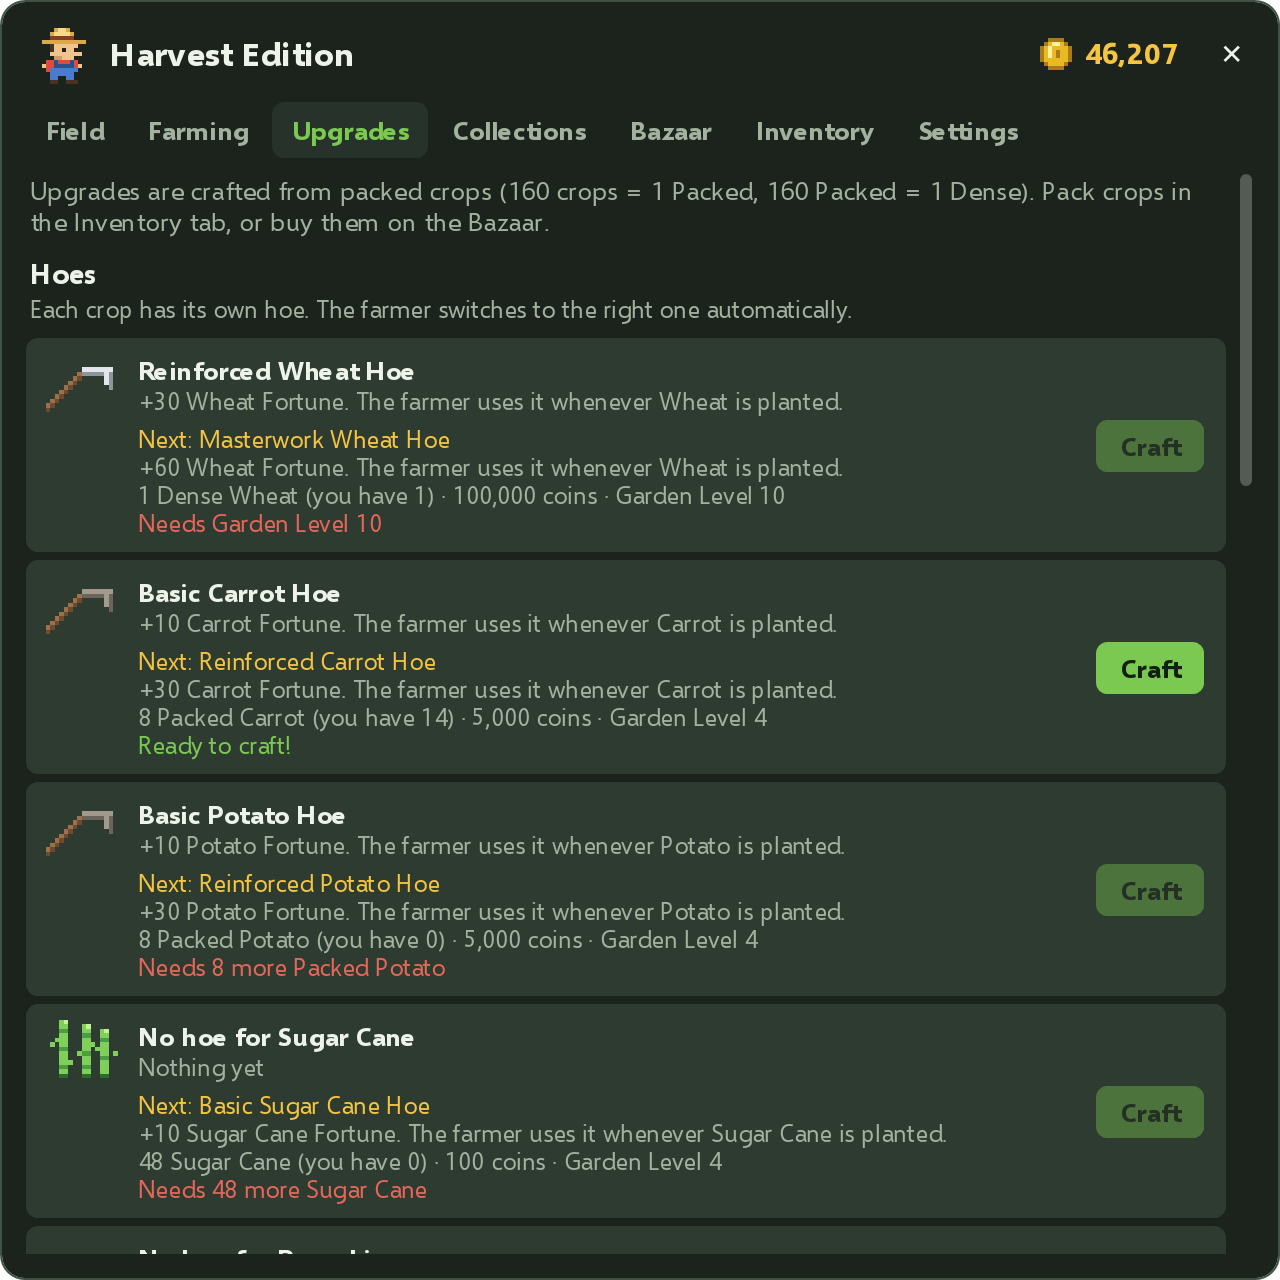
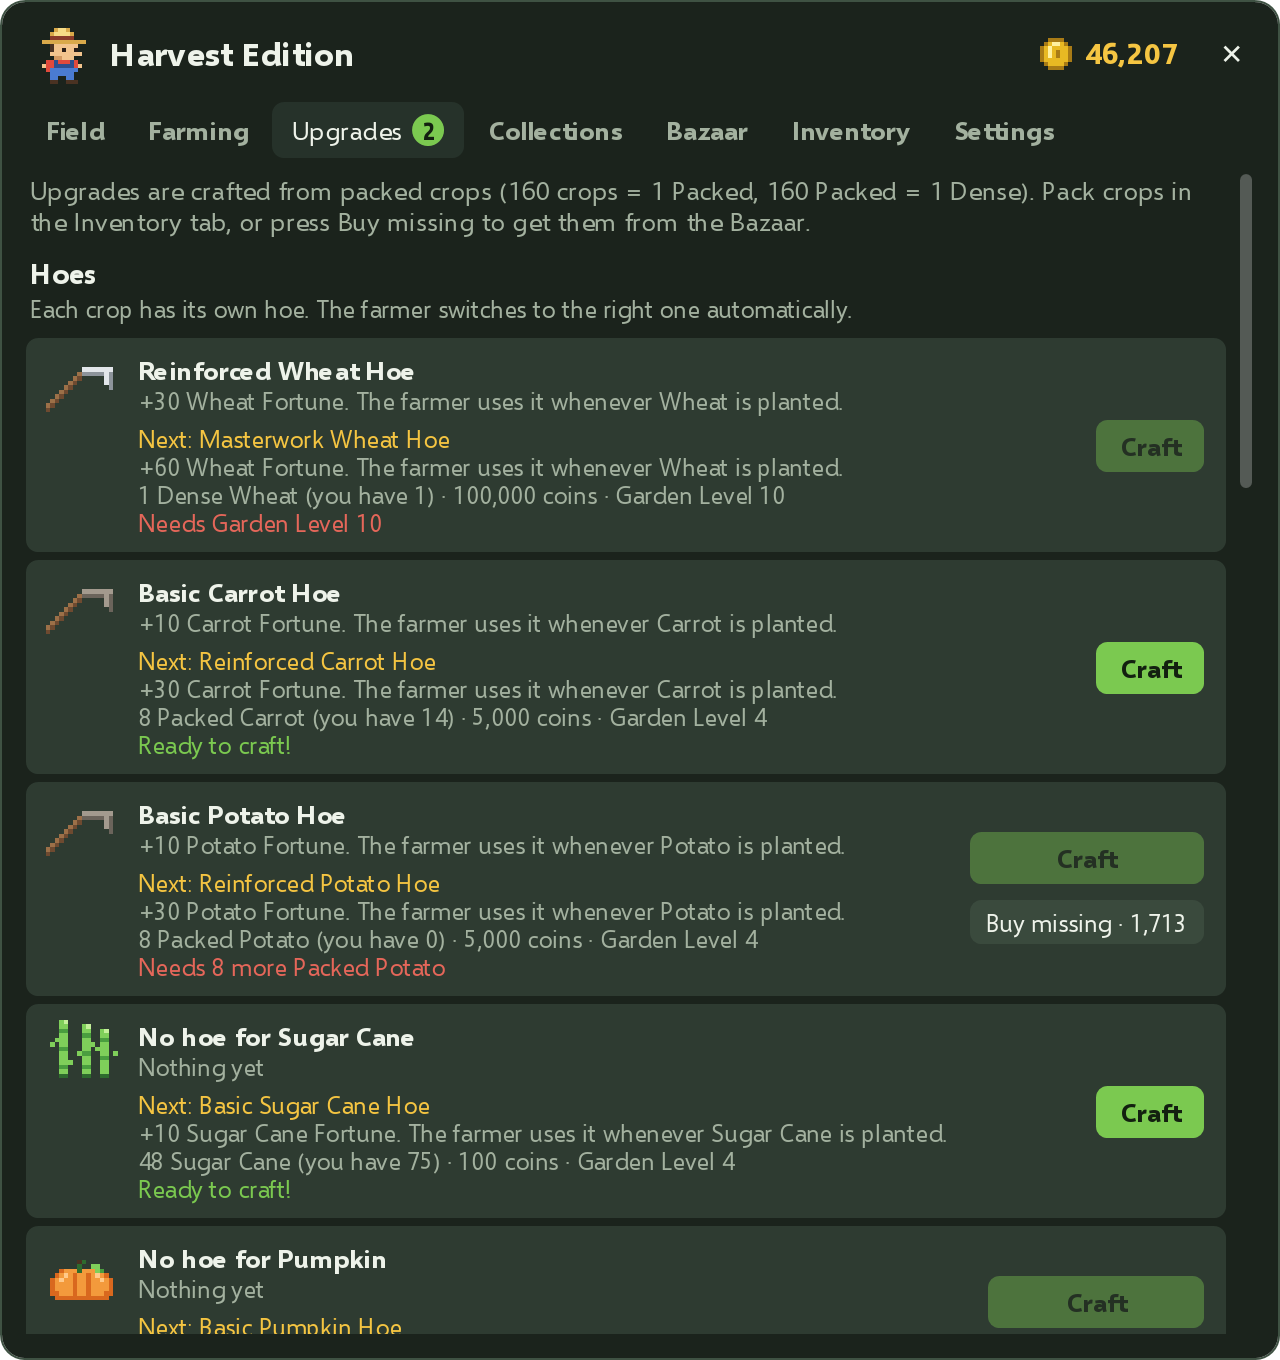
QOL: README and screenshots
Documents drag-to-farm, the Compactor, Buy missing, the Inventory changes
(Pack menu, locks, keeping crops for upgrades, auto-sell per crop), the
Bazaar search, prices and chart, coins an hour, and the new settings.
The screenshot tour also captures the bottom of the longer tabs.

Claude-Session: https://claude.ai/code/session_01ToZMHn8mZGdH8CgZx5DN39

diff --git a/src/TaskBarGame.App/ViewModels/Rows.cs b/src/TaskBarGame.App/ViewModels/Rows.cs
@@ -394,7 +394,7 @@ public sealed class CropSettingRow : ObservableObject
         }
         var needs = engine.UpgradeNeeds(Crop);
         var parts = new List<string>();
-        if (needs.Raw > 0) parts.Add(Format.Number(needs.Raw));
+        if (needs.Raw > 0) parts.Add($"{Format.Number(needs.Raw)} {Crop.Name}");
         if (needs.Packed > 0) parts.Add($"{Format.Number(needs.Packed)} Packed");
         if (needs.Dense > 0) parts.Add($"{Format.Number(needs.Dense)} Dense");
         KeptText = parts.Count == 0 ? "Nothing needed right now" : "Upgrades need " + string.Join(" + ", parts);

diff --git a/README.md b/README.md
@@ -50,6 +50,7 @@ dotnet publish src/TaskBarGame.App -c Release -r win-x64 --self-contained true -
 |---|---|
 | Click a **grown** crop | Break it yourself: +25 Harvest Fortune, and you see the XP you earned |
 | Click a **growing** crop | Tend it: it regrows faster |
+| **Hold the button and drag** along the row | Break (or tend) every crop you pass over |
 | Right-click the row | Choose which crop to plant (the whole row changes) |
 | Click the **farmer's head** or the **coins** | Open the panel |
 | Right-click the farmer or the strip | Quick menu: plant, sell crops, strip size, position, show-on-hover, quit |
@@ -128,6 +129,20 @@ Every 1,000 crops a hoe breaks adds +1 Fortune for that crop (up to +30).
 | Merchant's | Market sell price % | Potato, then Melon |
 | Scholar's | Farming XP % | Wheat, then Pumpkin, then Cocoa |
 
+**Compactor:** packs crops for you as they're harvested, so you don't have to press Pack.
+
+| Tier | What it does | Made from |
+|---|---|---|
+| Compactor | Every 160 crops become 1 Packed crop | 8 Packed Wheat + 8 Packed Carrot + 5,000 coins (Garden 3) |
+| Dense Compactor | Also presses every 160 Packed into 1 Dense crop | 1 Dense Wheat + 16 Packed Melon + 100,000 coins (Garden 9) |
+
+You can turn it off for any crop in the Inventory tab. It leaves alone any plain crops your next upgrades
+use as they are (like the 48 crops for a first hoe).
+
+The number on the **Upgrades** tab is how many upgrades you can craft right now, and a popup tells you
+when a new one becomes ready. If an upgrade is only missing ingredients, **Buy missing** buys them on
+the Bazaar in one click and shows what that costs.
+
 ### Bazaar
 
 Buy and sell crops, packed crops and dense crops with other (pretend) farmers in the **Bazaar** tab.
@@ -140,10 +155,30 @@ Buy and sell crops, packed crops and dense crops with other (pretend) farmers in
   bit by bit while buyers are paying that much. **Buy order** bids a bit under the buy price: your coins
   are set aside and the items arrive while sellers are that cheap. Orders keep filling while the game is
   closed, and you can cancel them to get back whatever hasn't filled.
+- Type **your own price** for a sell offer or buy order, or leave the box empty for the automatic one
+  (just better than the current price, so it fills soon). You're warned if your price is worse than
+  trading straight away.
+- The **chart** shows the item's sell price over the last 2 hours, so you can tell a good time to sell.
+- The **search box** finds items by name: "melon" shows Melon, Packed Melon and Dense Melon.
 - On average the Bazaar pays about 20% more than the Market. Buying packed and dense crops here is a
   quick way to get materials for upgrades.
 
+### Inventory
+
 The **Inventory** tab is for packing crops and selling quickly to the Market.
+
+- **Pack ▾** lets you choose how many to pack (1, 5, 10... or all). **Pack everything** packs it all.
+- **Lock** an item and it's never sold: not by a Sell button, auto-sell or the Bazaar.
+- **Keep enough crops for my next upgrades** (on by default): selling to the Market, Sell all crops and
+  auto-sell keep back what your next hoes, armour, talismans and Compactor need, counting the crops you
+  still have to pack. Each item shows how many it's keeping.
+- **Auto-sell** is chosen crop by crop: those crops are sold to the Market as soon as they're harvested
+  (apart from what's kept for upgrades). The same list turns the Compactor on or off for each crop.
+
+<img src="docs/screenshots/panel-inventory-bottom.png" width="48%" alt="The bottom of the Inventory tab: auto-sell and Compactor switches for every crop, and what your upgrades need">
+
+The **Farming** tab's crop guide shows roughly how many coins an hour each crop would make you, with
+your hoes, Fortune and speed, and marks the best one.
 
 <p>
   <img src="docs/screenshots/panel-farming.png" width="32%" alt="Farming tab: Farming level and where your Harvest Fortune comes from">
@@ -162,7 +197,16 @@ In the panel's **Settings** tab (or the right-click menu):
 
 - **Size:** Small / Normal / Large.
 - **Position:** Left / Center / Right of the screen.
-- Farmer auto-farming, auto-sell, floating numbers, hide during fullscreen apps, start with Windows.
+- **Pop-ups:** choose which ones you see (level-ups, collection tiers, upgrades ready, crafted upgrades,
+  Bazaar orders, welcome back), or pause them all for a while.
+- **Short numbers:** 12.3K and 1.23M instead of 12,345 and 1,234,567.
+- **Battery saver** (on by default): the strip animates less often while the laptop is on battery. The
+  farmer and your crops keep the same pace. While a fullscreen app hides the strip, the game always
+  updates less often.
+- Farmer auto-farming, keeping crops for upgrades, floating numbers, hide during fullscreen apps, start
+  with Windows.
+
+The panel opens where you last dragged it, on the tab you last had open.
 
 Your save file is `%APPDATA%\TaskBarGame Harvest Edition\save.json` (with a `.bak` backup). If something
 breaks, details are written to `%APPDATA%\TaskBarGame Harvest Edition\error.log`.
@@ -194,7 +238,7 @@ dotnet test
 ### Screenshots
 
 The game has a screenshot mode that plays a demo field (it never touches your save), saves pictures
-of the strip and every panel tab, then quits:
+of the strip and every panel tab (and the bottom of the longer ones), then quits:
 
 ```bash
 TaskBarGame.exe --screenshots docs\screenshots
